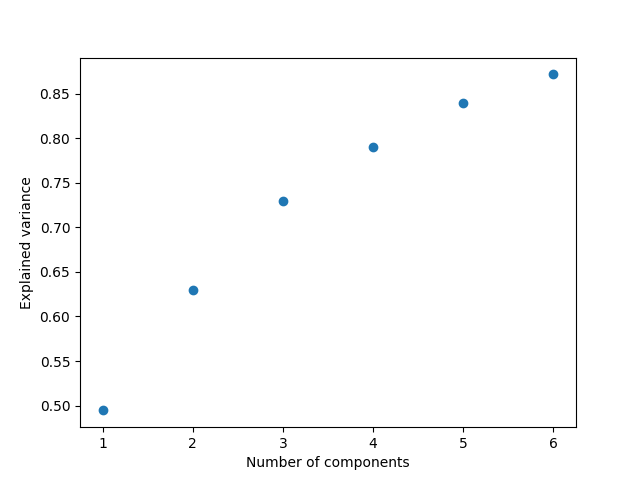
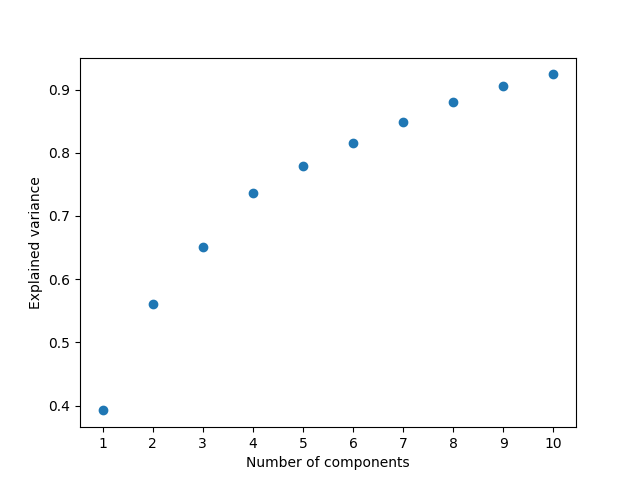
Fix latent factor analysis

diff --git a/results-analysis/LFA/acp.py b/results-analysis/LFA/acp.py
@@ -1,23 +1,41 @@
 import pandas as pd
-from sklearn.decomposition import PCA
+from sklearn.decomposition import PCA, FastICA,DictionaryLearning
 import matplotlib.pyplot as plt
 import numpy as np
 import seaborn as sns
 from scipy.cluster.hierarchy import dendrogram, linkage
+from scipy.stats import norm
 
 # Delete FA for memorability
 # Delete RT for all
 # Plot RDM
 
+def inv_norm_transform(dataframe):
+    #first 0 and 1 number is replaced according to the total task number to avoid infinity. See also Macmillan, N. A., & Kaplan, H. L. (1985).
+    task_names = ['moteval', 'loadblindness', 'memorability', 'enumeration', 'workingmemory']
+    num_totals = [15.,20.,16.,20.,12.]
+    for col in dataframe.columns:
+        for task,num in zip(task_names,num_totals):
+            if task in col:
+                dataframe[col] = dataframe[col].mask(dataframe[col]==1,1-(1/(2*num)))
+                dataframe[col] = dataframe[col].mask(dataframe[col]==0,1/(2*num))
+        #invert normal transformation is applyed only for the accuracy data, not for rt. For rt data, I apply log transform.
+        if 'rt' not in col:
+            dataframe[col] = dataframe[col].apply(norm.ppf)
+        else:
+            dataframe[col] = dataframe[col].apply(np.log)
+    return dataframe
+
 if __name__ == '__main__':
-    pca = PCA(6)
-    dataframe = pd.read_csv('tmp_merge_acp_all.csv')
+    pca = PCA(10)
+    dataframe = pd.read_csv('tmp_merge_acp_all_plus_rt.csv')
     dataframe = dataframe.fillna(dataframe.mean())
     dataframe.drop(columns=['Unnamed: 0', "task_status", 'participant_id'], inplace=True)
     # dataframe = dataframe[dataframe.columns[:-20]]
+    dataframe = inv_norm_transform(dataframe)
     normalized_dataframe = (dataframe - dataframe.mean()) / dataframe.std()
     cov_matrix = normalized_dataframe.cov()
-    pca.fit(dataframe.values)
+    pca.fit(normalized_dataframe.values)
     plt.scatter([i for i in range(1, len(pca.explained_variance_ratio_) + 1)], np.cumsum(pca.explained_variance_ratio_))
     plt.xlabel('Number of components')
     plt.xticks(np.arange(1, len(pca.explained_variance_ratio_) + 1),
@@ -30,7 +48,8 @@ if __name__ == '__main__':
     results_loading.to_csv('loadings.csv')
 
     plt.figure()
-    sns.heatmap(results_loading.abs().values)
+    #sns.heatmap(results_loading.abs().values)
+    sns.heatmap(results_loading.values,cmap="PuOr",center=0)
     plt.savefig('heatmap_loadings.png')
     plt.close()
 
@@ -49,3 +68,24 @@ if __name__ == '__main__':
     plt.close()
     print(pca.explained_variance_ratio_)
     print(pca.singular_values_)
+
+
+    ica = FastICA(10)
+    ica.fit(normalized_dataframe.values)
+    Uica = ica.mixing_ 
+    Aica = ica.transform(normalized_dataframe.values).T
+    plt.figure()
+    sns.heatmap(Uica,cmap="PuOr",center=0)
+    plt.savefig('heatmap_loadings_ica.png')
+    plt.close()
+
+    sparse = DictionaryLearning(10)
+    sparse.fit(normalized_dataframe.values)
+    Usc = sparse.components_ .T
+    Asc = sparse.transform(normalized_dataframe.values).T
+    plt.figure()
+    sns.heatmap(Usc,cmap="PuOr",center=0)
+    plt.savefig('heatmap_loadings_sparse.png')
+    plt.close()
+    import pdb;pdb.set_trace()
+    a =1
